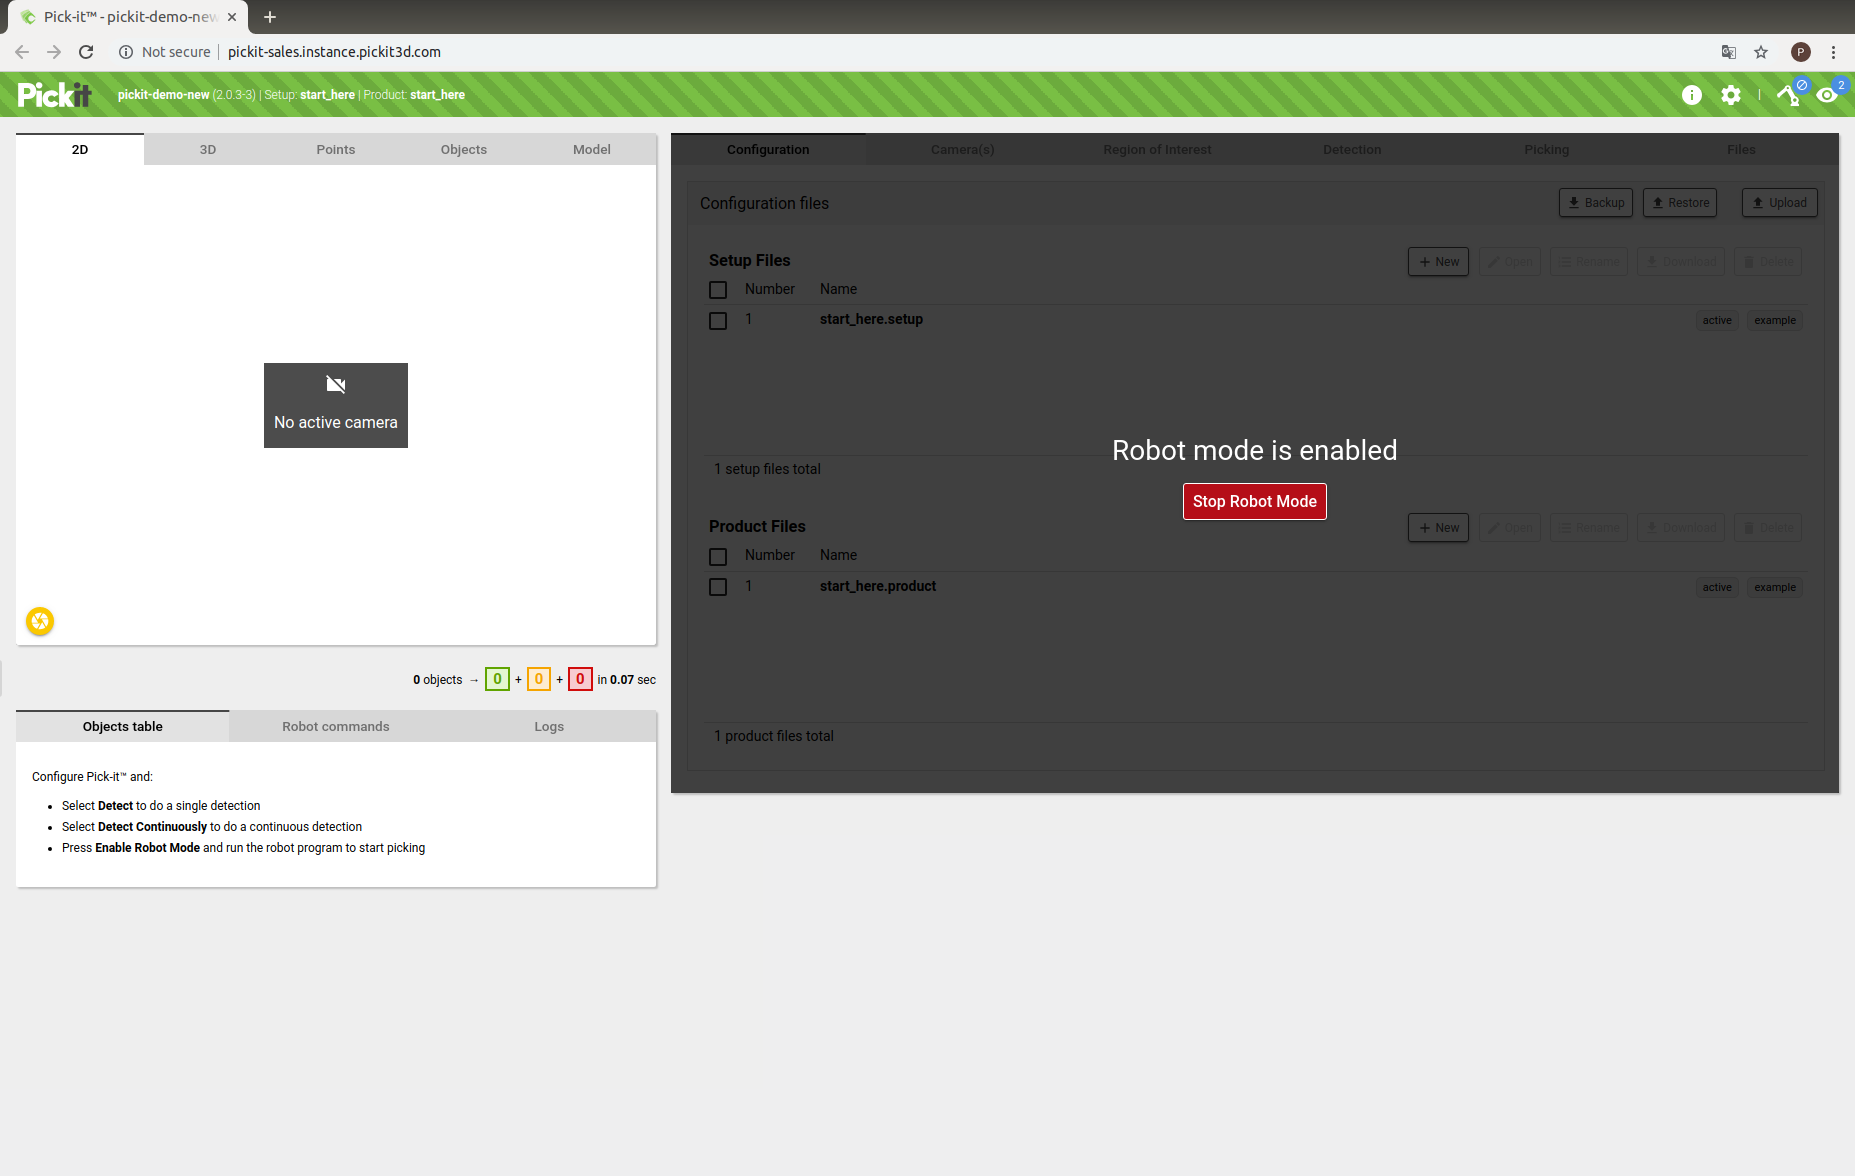
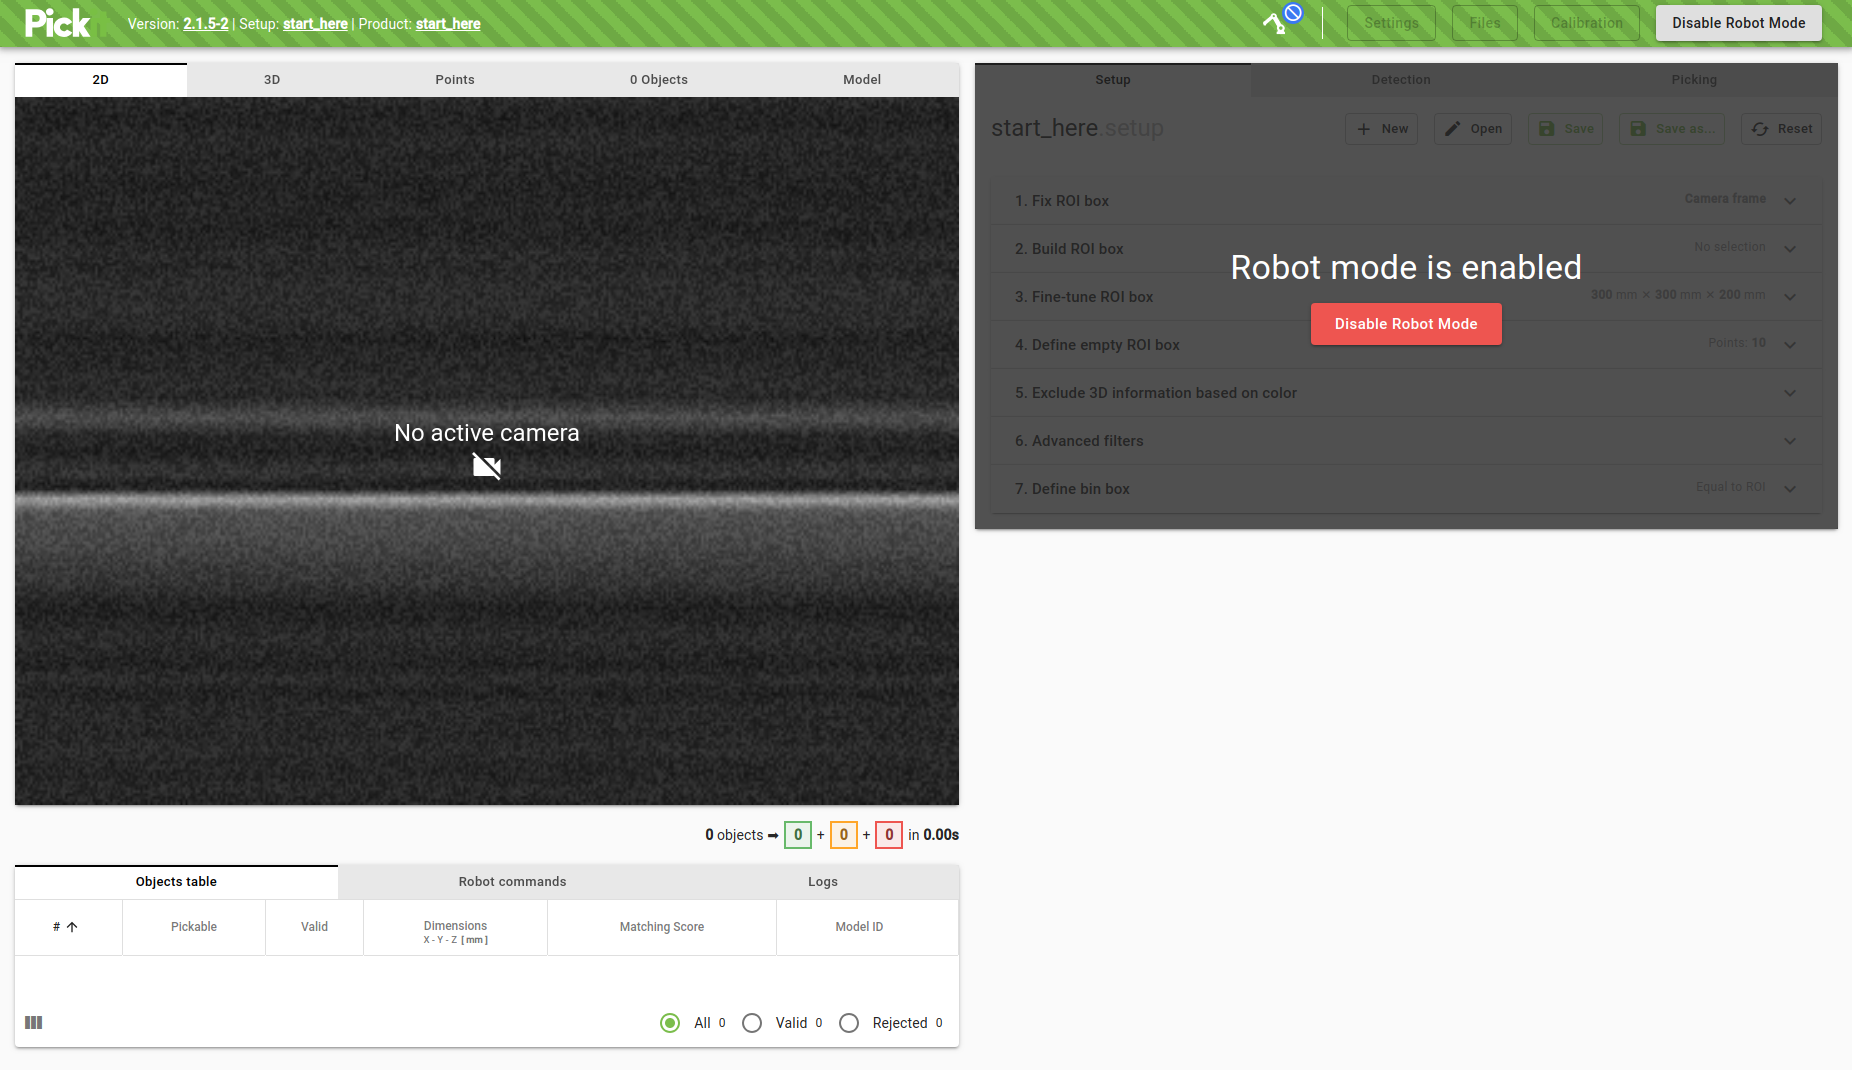
Update screenshots and instructions for test_the_setup article.

diff --git a/docs/quick-start/test-the-setup.rst b/docs/quick-start/test-the-setup.rst
@@ -13,9 +13,11 @@ able to see Pickit's user interface:   
 In the Pickit user interface the connection between the robot and the
 processor can be checked:
 
+-  Press Disable Robot mode.
 -  Press the Settings button on the top of the Pickit interface.
+-  In the left menu, under the Network settings, select Pick-it port labeled 'ROBOT'.
 -  Insert the IP address of your robot in the Robot IP field and press
-   Check
+   Check.
 -  A pop-up message indicating failure or success appears on the lower
    right corner of the screen. 
 
